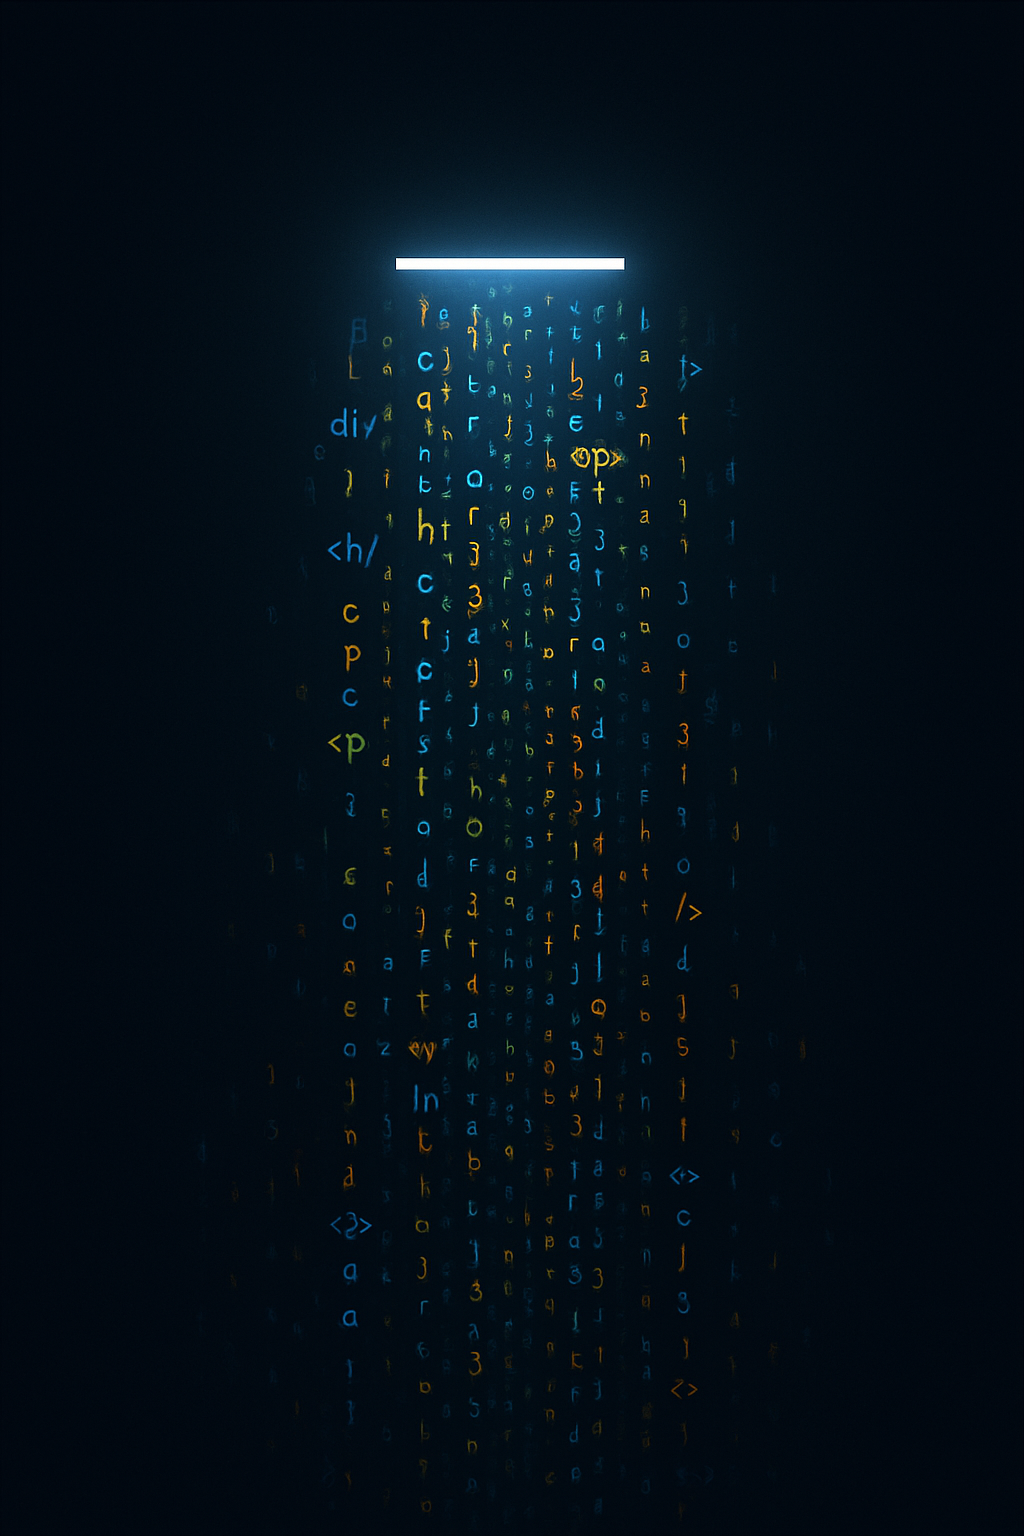
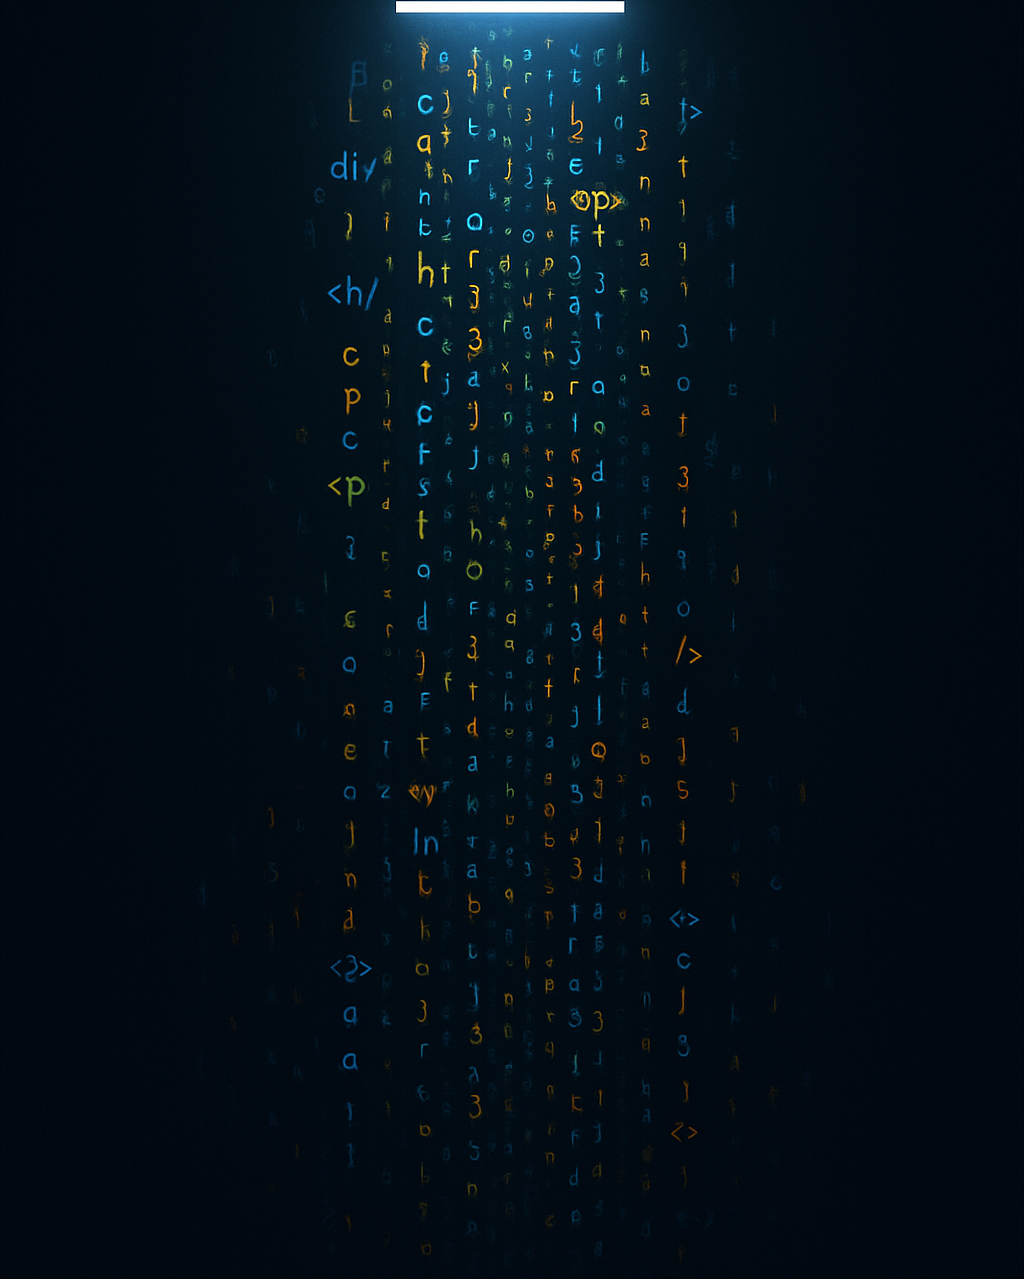
feat: update hero component and global styles for improved layout and asset management
- Replaced hero background image with a new asset and removed the obsolete hero2.png file.
- Enhanced global styles in globals.css to ensure full height and prevent image dragging.
- Modified the home page layout to include a new Services component for better user engagement.
- Adjusted spacing and layout in the Hero component for improved visual presentation.

diff --git a/client/src/app/components/services/page.tsx b/client/src/app/components/services/page.tsx
@@ -1,0 +1,92 @@
+import React from "react";
+import Image from "next/image";
+import styles from "./services.module.css";
+
+type servicesType = {
+  id : number;
+  image : string;
+  name : string;
+  description : string;
+}
+
+export default function Services() {
+  const services : servicesType[] = [
+    {
+      id:1,
+      name: "Website Development",
+      image: "/web dev.png",
+      description: "We build your website from scratch with speed, performance, and smooth functionality"
+    },
+    {
+      id: 2,
+      name: "UI/UX Design",
+      image: "/ui-ux.png",
+      description: "We create attractive, user-friendly interfaces that make browsing easy and enjoyable"
+    },
+    {
+      id:3,
+      image: "/testing.png",
+      name: "Website & App Testing",
+      description: "We test your site on all devices and browsers to ensure smooth performance and flawless functionality"
+    },
+    {
+      id:4,
+      image: "/enhancement.png",
+      name: "Project Enhancement",
+      description: "We upgrade your existing project by adding features and boosting performance—no need to start over."
+    }
+  ]
+
+  return (
+    <div className="w-full flex justify-center items-center mt-20 mb-20 flex-col px-4">
+      <div className="text-center mb-16">
+        <h2 className="text-[40px] font-bold mb-4 bg-gradient-to-r ">
+          What We Offer
+        </h2>
+        <p className="text-lg text-gray-300 max-w-2xl mx-auto">
+          Scalable, elegant websites by a full-stack design & development team
+        </p>
+      </div>
+
+      <div className="grid grid-cols-1 md:grid-cols-2 gap-8 max-w-6xl w-full">
+        {services.map((service, index) => (
+          <div 
+            key={service.id} 
+            className={`${styles.serviceCard} group`}
+            style={{ animationDelay: `${index * 0.1}s` }}
+          >
+            <div className="relative bg-[#021327] rounded-2xl p-8 h-full border border-gray-700/30 hover:border-blue-500/50 transition-all duration-300 hover:shadow-2xl hover:shadow-blue-500/10">
+              {/* Icon section */}
+              <div className="flex justify-center mb-8">
+                <div className={`${styles.iconWrapper} relative`}>
+                  <Image 
+                    src={service.image} 
+                    alt={service.name} 
+                    width={80} 
+                    height={80}
+                    className={`${styles.serviceIcon} transition-all duration-300`}
+                  />
+                  <div className={`${styles.iconGlow} absolute inset-0 rounded-full`}></div>
+                </div>
+              </div>
+              
+              {/* Content */}
+              <div className="text-center">
+                <h3 className="text-2xl font-bold mb-4 text-white group-hover:text-blue-300 transition-colors duration-300">
+                  {service.name}
+                </h3>
+                
+                <p className="text-gray-300 leading-relaxed group-hover:text-gray-200 transition-colors duration-300">
+                  {service.description}
+                </p>
+              </div>
+
+              {/* Bottom accent */}
+              <div className="mt-8 h-1 bg-gradient-to-r from-blue-500 to-purple-500 rounded-full transform scale-x-0 group-hover:scale-x-100 transition-transform duration-500 origin-left"></div>
+            </div>
+          </div>
+        ))}
+      </div>
+    </div>
+  );
+}

diff --git a/client/src/app/components/services/services.module.css b/client/src/app/components/services/services.module.css
@@ -1,0 +1,120 @@
+.box{
+    
+}
+
+/* Service card entrance animation */
+.serviceCard {
+  animation: slideInUp 0.6s ease-out forwards;
+  opacity: 0;
+  transform: translateY(30px);
+}
+
+@keyframes slideInUp {
+  to {
+    opacity: 1;
+    transform: translateY(0);
+  }
+}
+
+/* Icon wrapper */
+.iconWrapper {
+  position: relative;
+  display: inline-block;
+}
+
+/* Service icon */
+.serviceIcon {
+  transition: all 0.3s ease;
+  z-index: 2;
+  position: relative;
+}
+
+.serviceCard:hover .serviceIcon {
+  transform: scale(1.1);
+}
+
+/* Icon glow effect */
+.iconGlow {
+  background: radial-gradient(circle, rgba(96, 165, 250, 0.2) 0%, transparent 70%);
+  opacity: 0;
+  transition: opacity 0.3s ease;
+  z-index: 1;
+}
+
+.serviceCard:hover .iconGlow {
+  opacity: 1;
+}
+
+/* Particle animations */
+.particles {
+  overflow: hidden;
+}
+
+.particle {
+  position: absolute;
+  width: 4px;
+  height: 4px;
+  background: #60a5fa;
+  border-radius: 50%;
+  opacity: 0;
+  animation: float 6s infinite;
+}
+
+.particle:nth-child(1) {
+  top: 20%;
+  left: 20%;
+  animation-delay: 0s;
+}
+
+.particle:nth-child(2) {
+  top: 60%;
+  right: 20%;
+  animation-delay: 2s;
+}
+
+.particle:nth-child(3) {
+  bottom: 20%;
+  left: 50%;
+  animation-delay: 4s;
+}
+
+@keyframes float {
+  0%, 100% {
+    opacity: 0;
+    transform: translateY(0) scale(0);
+  }
+  50% {
+    opacity: 0.8;
+    transform: translateY(-20px) scale(1);
+  }
+}
+
+@keyframes borderRotate {
+  0% {
+    background-position: 0% 50%;
+  }
+  50% {
+    background-position: 100% 50%;
+  }
+  100% {
+    background-position: 0% 50%;
+  }
+}
+
+/* Hover effects for the entire box */
+.serviceCard:hover {
+  transform: translateY(-10px);
+  box-shadow: 0 20px 40px rgba(0, 0, 0, 0.3);
+}
+
+/* Responsive adjustments */
+@media (max-width: 768px) {
+  .serviceCard {
+    animation-delay: 0.1s !important;
+  }
+  
+  .serviceIcon {
+    width: 60px !important;
+    height: 60px !important;
+  }
+}

diff --git a/client/src/app/components/hero/page.tsx b/client/src/app/components/hero/page.tsx
@@ -9,15 +9,18 @@ export default function Hero() {
                 <div className='flex justify-center items-center flex-col w-full h-full gap-4'>
                     <div className={`flex justify-center items-center`}>
                         <Image src="/logo.png" alt="Fullex Logo" width={350} height={100} priority />
-                    </div>     
-                    <div className='flex justify-center items-center flex-col'>
-                    <p className='text-[20px]'>Digital solutions that transform your ideas into tangible</p>
-                    <p className='text-[20px]'>achievements with warmth and confidence</p>
-                    </div>                
-                    <div className='flex justify-center items-center flex-row gap-4'>
-                        <button className='btn-gradient'>Let’s Talk</button>
-                        <button className='btn-gradient'>Services</button>
-                    </div>
+                    </div>  
+                    <div className='flex justify-center items-center flex-col w-full h-full gap-10'>
+                        <div className='flex justify-center items-center flex-col'>
+                            <p className='text-[20px]'>Digital solutions that transform your ideas into tangible</p>
+                            <p className='text-[20px]'>achievements with warmth and confidence</p>
+                        </div>                
+                        <div className='flex justify-center items-center flex-row gap-10'>
+                            <button className='btn-gradient'>Let’s Talk</button>
+                            <button className='btn-gradient'>Services</button>
+                        </div>
+                    </div>   
+                    
                 </div>
             </div>
         </div>

diff --git a/client/src/app/components/Navbar/navbar.module.css b/client/src/app/components/Navbar/navbar.module.css
@@ -93,7 +93,7 @@
 .language-icon:hover {
   background: rgba(96, 165, 250, 0.2);
   transform: scale(1.1) rotate(5deg);
-  box-shadow: 0 0 20px rgba(96, 165, 250, 0.3);
+  box-shadow: 0 0 15px rgba(96, 165, 250, 0.3);
 }
 
 .language-icon:active {
@@ -118,7 +118,7 @@
     box-shadow: 0 0 0 0 rgba(96, 165, 250, 0.4);
   }
   70% {
-    box-shadow: 0 0 0 10px rgba(96, 165, 250, 0);
+    box-shadow: 0 0 0 5px rgba(96, 165, 250, 0);
   }
   100% {
     box-shadow: 0 0 0 0 rgba(96, 165, 250, 0);

diff --git a/client/src/app/page.tsx b/client/src/app/page.tsx
@@ -1,12 +1,14 @@
 import Image from "next/image";
 import Navbar from "./components/Navbar/page";
 import Hero from "./components/hero/page";
+import Services from "./components/services/page";
 
 export default function Home() {
   return (
-    <div className="flex justify-center h-screen flex-col">
+    <div className="flex justify-center min-h-screen flex-col">
       <Navbar />
       <Hero />
+      <Services />
     </div>
   );
 }

diff --git a/client/src/app/globals.css b/client/src/app/globals.css
@@ -113,6 +113,17 @@ html, body {
   overflow-x: hidden;
   box-sizing: border-box;
   width: 100%;
+  height: 100%;
   max-width: 100vw;
+  min-height: 100vh;
+}
+
+/* Make all images non-draggable */
+img {
+  -webkit-user-drag: none;
+  -khtml-user-drag: none;
+  -moz-user-drag: none;
+  -o-user-drag: none;
+  pointer-events: none;
 }
 

diff --git a/client/src/app/components/hero/hero.module.css b/client/src/app/components/hero/hero.module.css
@@ -4,7 +4,7 @@
 
 }
 .hero{
-    background-image: url("/hero2.png");
+    background-image: url("/hero.png");
     background-repeat: no-repeat;
     background-position: center top;
     background-size: 600px ;
